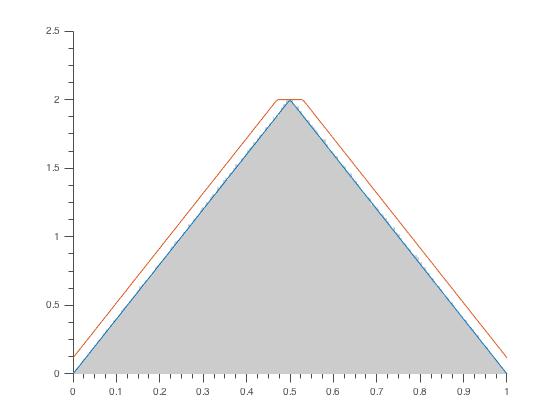
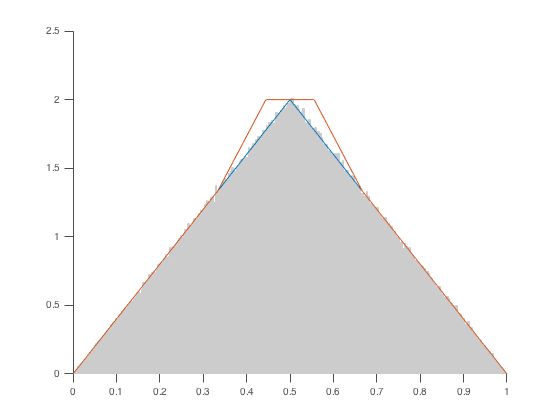
General improvements.

Changed region(s): [[0.425, 0.2167, 0.9107, 0.8976], [0.1214, 0.3714, 0.425, 0.8976]]

diff --git a/src/lipsample.m b/src/lipsample.m
@@ -1,8 +1,8 @@
 function [sample, x, y] = lipsample(f, L, limits, m, varargin)
-% Samples from a Lipschitz continuous probability density function on [a,b].
+% Random variates from a Lipschitz continuous probability density function on [a,b].
 %
 %   s = lipsample(@f, L, [a b], m)
-%       Draws _m_ samples from the probability distribution _f_ on [_a_, _b_] 
+%       Draws _m_ samples from the probability density _f_ on [_a_, _b_] 
 %       which is Lipchitz continuous of order _L_. If _f_ is continuously 
 %       differentiable, then the best choice of _L_ is the maximum value 
 %       of its derivative.
@@ -15,9 +15,12 @@ function [sample, x, y] = lipsample(f, L, limits, m, varargin)
 %   s = lipsample(..., m, 'Tolerance', epsilon)
 %       ... When _m_ is large, samples follow an approximation of _f_
 %       that is at distance at most epsilon in the supremum norm. By
-%       default, epsilon = 0.001. If epsilon = 0, exact samples are drawn
+%       default, epsilon = 0.0005. If epsilon = 0, exact samples are drawn
 %       for all values of m.
 %       
+%   [s, x, y] = lipsample(@f, L, [a b], m)
+%       ... Returns the spline envelope constructed by the algorithm: the
+%       envelope linearly interpolates the points (x,y).
 %
 %   Dependencies
 %   ------------
@@ -40,6 +43,16 @@ function [sample, x, y] = lipsample(f, L, limits, m, varargin)
 %       plot(linspace(0,1), myfunc(linspace(0,1)));
 %       hold off
 %
+%   % Plot the envelope constructed by the algorithm
+%       [sample, x, y] = lipsample(@myfunc, 4*pi, [0 1], 10000);
+%       u = linspace(0, 1, 200);
+%       hold on
+%       pretty_hist(sample, [0 1]);
+%       plot(u, myfunc(u));
+%       plot(u, interp1(x,y,u));
+%       hold off
+%       
+%
 %   Implementation details
 %   ----------------------
 %     - Acceptance-rejection sampling. A first degree spline envelope of _f_
@@ -55,25 +68,36 @@ function [sample, x, y] = lipsample(f, L, limits, m, varargin)
 %
 %   CC-BY O.B. sept. 15 2017
 
-    % Parsing input arguments.
+    % Parse input arguments.
     a = limits(1);
     b = limits(2);
-    
+
     p = inputParser;
-    addOptional(p, 'N', floor(6*L*(b-a)) + 1);
-    addOptional(p, 'Tolerance', 0.001);
+    addOptional(p, 'Tolerance', 0.0005);
+    addOptional(p, 'N', ceil(50*sqrt(L)) + 1);
+    
     parse(p, varargin{:});
-    
-    n = p.Results.N;
     tolerance = p.Results.Tolerance;
-    
-    % Constructing the spline envelope.
+    n = p.Results.N;
+        
+    % Construct the spline envelope.
     s = (b-a) * L / (2*n);
     x = linspace(0,1,n+1);
-    y = arrayfun(f, x*(b-a) + a) + s;
+    y = arrayfun(f, x*(b-a) + a);
     
-    % Sampling from the envelope.
-    nProp = ceil((1.5+s)*m);
+    % Use the Lipschitz constant to locally adjust the spline.
+    M = abs(atan(n*diff(y)/(b-a)));
+    r = sqrt(((b-a)/n)^2 + diff(y).^2);
+    alpha = atan(L);
+    h = ((b-a)*tan(alpha)/n - r.*sin(M))/2;
+    y(1) = y(1) + h(1);
+    y(n+1) = y(n+1) + h(n);
+    for i = 2:n
+        y(i) = y(i) + max(h(i-1), h(i));
+    end
+            
+    % Generate random variates following the envelope.
+    nProp = ceil((1+s)*m);
     U1 = rand(1, nProp);
     U2 = rand(1, nProp);
 
@@ -83,13 +107,12 @@ function [sample, x, y] = lipsample(f, L, limits, m, varargin)
     y(1) = 2*y(1);
     y(end) = 2*y(end);
 
-    U = (U1 + U2 + I - 2)/n;
-    U(U < 0) = -U(U < 0);
+    U = abs((U1 + U2 + I - 2)/n);
     U(U > 1) = 2 - U(U > 1); % The sample.
     
-    % Evaluating f at the points U*(b-a)+a
-    if (tolerance > 0) && (m > (b-a) * L / tolerance) % Approximation when m is large
-        nDiscretize = ceil((b-a) * L / tolerance)+2;
+    % Evaluate f at the points U*(b-a)+a
+    if (tolerance > 0) && (m > 0.5*(b-a) * L / tolerance) % Optional approximation when m is large
+        nDiscretize = ceil(0.5 * (b-a) * L / tolerance)+2;
         fx = linspace(a, b, nDiscretize);
         fy = arrayfun(f, fx);
         B = interp1(fx, fy, U*(b-a) + a);
@@ -97,7 +120,7 @@ function [sample, x, y] = lipsample(f, L, limits, m, varargin)
         B = arrayfun(f,U*(b-a) + a);
     end
     
-    % Sampling f
+    % Generate from  f
     V = rand(1, nProp);
     sample = U(lt(V .* interp1(x,y,U), B))*(b-a)+a;
     
@@ -106,4 +129,6 @@ function [sample, x, y] = lipsample(f, L, limits, m, varargin)
     else
         sample = sample(1:m);
     end
+    
+    x = x *(b-a) + a;
 end

diff --git a/README.md b/README.md
@@ -1,5 +1,5 @@
 # LipSample
-MATLAB code to sample arbitrary Lipschitz continuous densities on the interval.
+MATLAB code to generate random variates following arbitrary Lipschitz continuous densities on the interval.
 
 ## Example
 
@@ -18,13 +18,13 @@ pretty_hist(sample, [-5 5]);
 
 ## Usage and functionalities
 
-`sample = lipsample(@f, L, [a b], m);` Draws _m_ samples from the probability density function _f_ which is Lipschitz continuous of order _L_ on _[a,b]_. For _m_ larger than 1000 * (b-a) * L, samples are drawn from a piecewise linear approximation of _f_ at distance at most 0.001 in the supremum norm. Exact samples or different error tolerances can be obtained by using the 'Tolerance' key.
+`sample = lipsample(@f, L, [a b], m);` Draws _m_ samples from the probability density function _f_ which is Lipschitz continuous of order _L_ on _[a,b]_. For large _m_, samples are drawn from a piecewise linear approximation of _f_ at distance at most 0.0005 in the supremum norm. Exact samples or different error tolerances can be obtained by using the 'Tolerance' key.
 
 `sample = lipsample(@f, L, [a b], m, 'Tolerance', epsilon);` ... If _epsilon_ = 0, exact samples are drawn for all sample sizes. Otherwise, for large _m_, samples are drawn from a piecewise linear approximation of _f_ at distance less than _epsilon_ in the supremum norm.
 
 ## Notes
-The density function _f_ does not have to be normalized, but it should be scaled to be near 1 as to improve efficiency. _L_ is the Lipschitz constant of _f_, not of its renormalization.
+The function _f_ does not have to be a normalized density, but it should be scaled to be near 1 as to improve efficiency. _L_ is the Lipschitz constant of _f_, not of its renormalization.
 
-Below you can see the envelope that was automatically constructed for the acceptance-rejection sampling of a triangular density (`lipsample(@triangular, 4, [0 1], 5000000);`).
+Below you can see the envelope that was automatically constructed for the acceptance-rejection sampling of a triangular density (`lipsample(@triangular, 4, [0 1], 1000000);`).
 
 ![](triangular-with-envelope.png)
